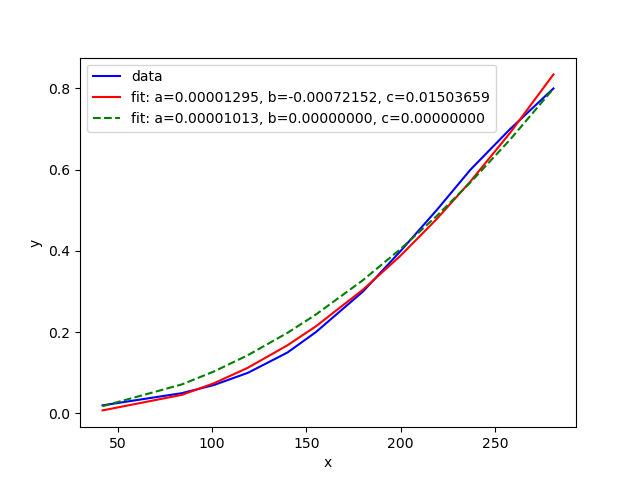
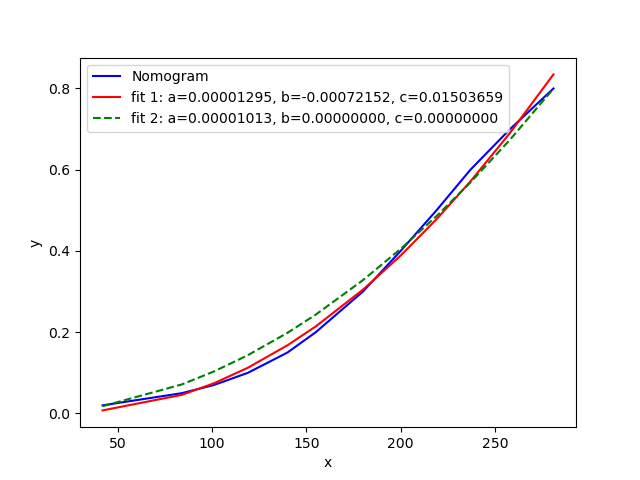
Add ReadMe

Changed region(s): [[0.1875, 0.125, 0.8125, 0.2812]]

diff --git a/win32/curvefit/curvefit.py b/win32/curvefit/curvefit.py
@@ -33,17 +33,17 @@ ydata = np.array([
 0.7,
 0.8])
 
-plt.plot(xdata, ydata, 'b-', label='data')
+plt.plot(xdata, ydata, 'b-', label='Nomogram')
 
 popt, pcov = curve_fit(func, xdata, ydata)
 popt
 plt.plot(xdata, func(xdata, *popt), 'r-',
-         label='fit: a=%1.8f, b=%1.8f, c=%1.8f' % tuple(popt))
+         label='fit 1: a=%1.8f, b=%1.8f, c=%1.8f' % tuple(popt))
 
 popt, pcov = curve_fit(func, xdata, ydata, bounds=(0, [.1, .1, .1]))
 popt
 plt.plot(xdata, func(xdata, *popt), 'g--',
-         label='fit: a=%1.8f, b=%1.8f, c=%1.8f' % tuple(popt))
+         label='fit 2: a=%1.8f, b=%1.8f, c=%1.8f' % tuple(popt))
 
 plt.xlabel('x')
 plt.ylabel('y')
